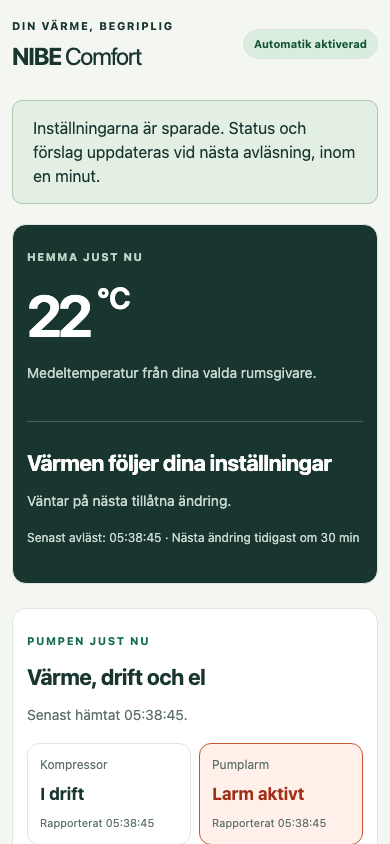
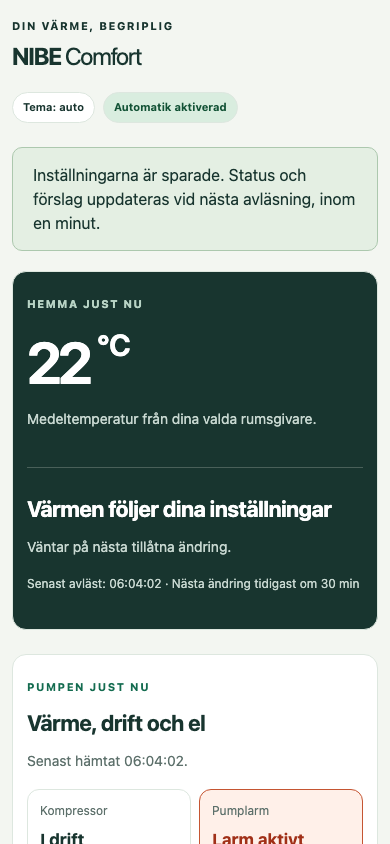
Dark mode following Home Assistant theme (0.2.4)

diff --git a/nibe_comfort/static/style.css b/nibe_comfort/static/style.css
@@ -5,3 +5,16 @@
 .dashboard{margin:24px 0}.live-grid{display:grid;grid-template-columns:repeat(auto-fit,minmax(170px,1fr));gap:14px}.live-metric{border:1px solid var(--line);border-radius:12px;padding:16px;min-width:0}.live-metric span,.live-metric small{display:block;font-size:12px;color:var(--muted)}.live-metric strong{display:block;font-size:21px;margin:8px 0;overflow-wrap:anywhere}.live-metric small{font-size:11px}.alarm-active{border-color:#c55532;background:#fff0e9}.alarm-active strong{color:#a13018}.section-heading{display:flex;align-items:center;justify-content:space-between;gap:16px}.chart{width:100%;min-height:100px;overflow:hidden}.chart svg{display:block;width:100%;height:auto}.chart text{font-size:13px;fill:var(--muted)}.chart-grid{stroke:var(--line);stroke-width:1}.chart-line{fill:none;stroke-width:2.5;stroke-linejoin:round;stroke-linecap:round}.chart-target{stroke:#657469;stroke-width:1.5;stroke-dasharray:7 5}.series-0{stroke:#146c50;color:#146c50}.series-1{stroke:#bd671c;color:#bd671c}.series-2{stroke:#4269bb;color:#4269bb}.series-3{stroke:#994b8e;color:#994b8e}.series-4{stroke:#b04743;color:#b04743}.series-5{stroke:#53821f;color:#53821f}.series-6{stroke:#16838a;color:#16838a}.series-7{stroke:#7158b1;color:#7158b1}.series-8{stroke:#6b614c;color:#6b614c}.series-9{stroke:#575c80;color:#575c80}.chart-legend{display:flex;flex-wrap:wrap;gap:8px 18px;font-size:12px}.legend-item:before{content:"";display:inline-block;width:16px;border-top:3px solid currentColor;margin-right:6px;vertical-align:middle}.forecast-list{display:flex;flex-wrap:wrap;gap:8px;font-size:12px}.forecast-list span{border:1px solid var(--line);padding:6px;border-radius:6px}.events-list{max-height:650px;overflow:auto}.event{padding:18px 0;border-bottom:1px solid var(--line)}.event>small{display:block;color:var(--muted);font-size:11px;margin-bottom:5px}.event>strong{font-size:14px}.event p{font-size:13px;white-space:pre-line;margin:8px 0}.event details{font-size:12px}.event pre{white-space:pre-wrap;overflow-wrap:anywhere;background:var(--bg);padding:12px;border-radius:8px}.table-scroll{max-height:320px;overflow:auto;margin-top:12px}table{border-collapse:collapse;width:100%;font-size:12px}td,th{text-align:left;border-bottom:1px solid var(--line);padding:8px}h3{font-size:16px;margin-top:24px}#manual-pump,#manual-outdoor,#manual-price{font-size:13px;margin:16px 0}
 .chart-line.dashed{stroke-dasharray:8 6}.legend-item.dashed:before{border-top-style:dashed}.chart-now{stroke:#18352f;stroke-width:1.5;stroke-dasharray:3 4}.chart .chart-guide-label{font-size:11px}.chart-marker{fill:#fff;stroke-width:2.5}.chart-band{fill:#4269bb;opacity:.1}.curve-point{fill:#146c50;opacity:.75}.curve-point.other{fill:#9aa79f;opacity:.5}.curve-current{fill:none;stroke:#bd671c;stroke-width:3}.plan-changes{font-size:13px;padding-left:20px;margin:6px 0 14px}.plan-changes{list-style:none;padding-left:0}.plan-changes li{margin:4px 0;padding:6px 10px;border-left:4px solid #ccc;border-radius:6px;background:#f6f7f5}.plan-changes li.plan-heading{background:none;border:0;padding:8px 0 0;font-weight:700;font-size:12px;text-transform:uppercase;letter-spacing:.04em;color:#666}.plan-changes li.planned{border-color:#994b8e}.plan-changes li.done-auto{border-color:#146c50}.plan-changes li.done-other{border-color:#d9822b}.plan-changes li.muted{color:#666}.chart-event line{stroke-width:1.5}.chart-event rect{stroke-width:1}.chart .chart-event text{font-size:11px;font-weight:600}.chart-event.planned line{stroke:#994b8e;stroke-dasharray:5 4}.chart-event.planned rect{fill:#f6eaf4;stroke:#994b8e}.chart-event.planned text{fill:#6e2f66}.chart-event.done-auto line{stroke:#146c50}.chart-event.done-auto rect{fill:#e6f3ee;stroke:#146c50}.chart-event.done-auto text{fill:#0d4a37}.chart-event.done-other line{stroke:#d9822b}.chart-event.done-other rect{fill:#fbefe2;stroke:#d9822b}.chart-event.done-other text{fill:#8a4c0f}.chart-line.thin{stroke-width:1.5;opacity:.7}.key{font-weight:700}.key.planned{color:#994b8e}.key.done-auto{color:#146c50}.key.done-other{color:#c46f1c}.compact-select{max-width:360px}
 @media(max-width:480px){.section-heading{align-items:flex-start;flex-direction:column}.live-grid{grid-template-columns:1fr 1fr;gap:8px}.live-metric{padding:12px}.live-metric strong{font-size:17px}.chart text{font-size:12px}header,main{padding:12px}.card{padding:18px 14px;border-radius:14px}.temperature{font-size:58px}h1{font-size:24px}header{flex-wrap:wrap}.metrics{grid-template-columns:repeat(3,minmax(0,1fr));gap:6px}.metrics strong{font-size:20px}.target-control input{font-size:26px}.target-control button{padding:8px 14px}.buttons button{flex:1 1 auto}.section-heading button{width:100%}.compact-select{max-width:none}}
+.header-actions{display:flex;gap:8px;align-items:center;flex-wrap:wrap;justify-content:flex-end}button.theme-toggle{color:var(--ink);cursor:pointer;font-weight:650}
+:root[data-theme=dark]{color-scheme:dark;--ink:#e3ece7;--muted:#9fb2aa;--green:#4cc08f;--line:#2f3b37;--paper:#1c2321;--bg:#111614}
+:root[data-theme=dark] .badge{background:#1c2321;color:var(--ink)}:root[data-theme=dark] .badge.active{background:#173d2d;color:#9ee3c1}
+:root[data-theme=dark] .hero{background:#0f2a22;color:#f1f6f3;border-color:#244a3d}:root[data-theme=dark] .hero-status{border-color:#2f5446}
+:root[data-theme=dark] input[type=number],:root[data-theme=dark] select{background:#141a18;border-color:#3a4a44;color:var(--ink)}
+:root[data-theme=dark] button{background:#2b8a63;color:#fff}:root[data-theme=dark] button.secondary,:root[data-theme=dark] .target-control button{background:#25302c;color:var(--ink)}:root[data-theme=dark] button.theme-toggle{background:var(--paper);color:var(--ink)}
+:root[data-theme=dark] .explanation{background:#1a2925}:root[data-theme=dark] #notice{background:#16291f;border-color:#2d5a43}:root[data-theme=dark] #notice.error,:root[data-theme=dark] .alarm-active{background:#33201a;border-color:#a8573c;color:#f3c2ad}:root[data-theme=dark] .alarm-active strong{color:#ff9d7d}
+:root[data-theme=dark] .chart-target{stroke:#8a9a93}:root[data-theme=dark] .chart-now{stroke:#cfdcd6}:root[data-theme=dark] .chart-marker{fill:var(--paper)}:root[data-theme=dark] .chart-band{fill:#7ea2ef;opacity:.14}:root[data-theme=dark] .curve-point.other{fill:#6f7d77}
+:root[data-theme=dark] .series-0{stroke:#4cc08f;color:#4cc08f}:root[data-theme=dark] .series-1{stroke:#f0a35c;color:#f0a35c}:root[data-theme=dark] .series-2{stroke:#7ea2ef;color:#7ea2ef}:root[data-theme=dark] .series-3{stroke:#d38ac8;color:#d38ac8}:root[data-theme=dark] .series-4{stroke:#ef8a85;color:#ef8a85}:root[data-theme=dark] .series-5{stroke:#9fd162;color:#9fd162}:root[data-theme=dark] .series-6{stroke:#5fc9cf;color:#5fc9cf}:root[data-theme=dark] .series-7{stroke:#b19cf0;color:#b19cf0}:root[data-theme=dark] .series-8{stroke:#c9b98f;color:#c9b98f}:root[data-theme=dark] .series-9{stroke:#a3a9d6;color:#a3a9d6}
+:root[data-theme=dark] .curve-point{fill:#4cc08f}:root[data-theme=dark] .curve-current{stroke:#f0a35c}
+:root[data-theme=dark] .plan-changes li{background:#202926}:root[data-theme=dark] .plan-changes li.plan-heading{background:none;color:var(--muted)}:root[data-theme=dark] .plan-changes li.muted{color:var(--muted)}:root[data-theme=dark] .plan-changes li.planned{border-color:#d38ac8}:root[data-theme=dark] .plan-changes li.done-auto{border-color:#4cc08f}:root[data-theme=dark] .plan-changes li.done-other{border-color:#f0a35c}
+:root[data-theme=dark] .chart-event.planned line{stroke:#d38ac8}:root[data-theme=dark] .chart-event.planned rect{fill:#3a2236;stroke:#d38ac8}:root[data-theme=dark] .chart-event.planned text{fill:#f0c8ea}:root[data-theme=dark] .chart-event.done-auto line{stroke:#4cc08f}:root[data-theme=dark] .chart-event.done-auto rect{fill:#173d2d;stroke:#4cc08f}:root[data-theme=dark] .chart-event.done-auto text{fill:#bff0d8}:root[data-theme=dark] .chart-event.done-other line{stroke:#f0a35c}:root[data-theme=dark] .chart-event.done-other rect{fill:#3d2a17;stroke:#f0a35c}:root[data-theme=dark] .chart-event.done-other text{fill:#f8d6b3}
+:root[data-theme=dark] .key.planned{color:#d38ac8}:root[data-theme=dark] .key.done-auto{color:#4cc08f}:root[data-theme=dark] .key.done-other{color:#f0a35c}

diff --git a/nibe_comfort/static/theme.js b/nibe_comfort/static/theme.js
@@ -1,0 +1,71 @@
+"use strict";
+// Loaded before the page renders to avoid a light flash. "auto" follows Home Assistant's
+// theme when the panel runs in the same-origin ingress iframe, otherwise the system setting.
+(() => {
+  const KEY = "nibe-comfort-theme";
+  const modes = ["auto", "light", "dark"];
+  const labels = { auto: "Tema: auto", light: "Tema: ljust", dark: "Tema: mörkt" };
+  const system = window.matchMedia("(prefers-color-scheme: dark)");
+  let choice = "auto";
+  try { choice = modes.includes(localStorage.getItem(KEY)) ? localStorage.getItem(KEY) : "auto"; } catch { /* storage blocked */ }
+
+  const luminance = (color) => {
+    const match = /rgba?\(\s*([\d.]+)[ ,]+([\d.]+)[ ,]+([\d.]+)(?:[ ,/]+([\d.]+%?))?/.exec(color || "");
+    if (!match || (match[4] !== undefined && parseFloat(match[4]) === 0)) return null;
+    return (0.2126 * match[1] + 0.7152 * match[2] + 0.0722 * match[3]) / 255;
+  };
+  const resolveColor = (doc, value) => {
+    if (!value) return null;
+    const probe = doc.createElement("span");
+    probe.style.color = value;
+    probe.style.display = "none";
+    doc.body.append(probe);
+    const color = doc.defaultView.getComputedStyle(probe).color;
+    probe.remove();
+    return color;
+  };
+  const parentDocument = () => {
+    try {
+      if (window.parent === window) return null;
+      return window.parent.document;
+    } catch { return null; }
+  };
+  const homeAssistantDark = () => {
+    const doc = parentDocument();
+    if (!doc || !doc.body) return null;
+    const style = doc.defaultView.getComputedStyle(doc.documentElement);
+    const scheme = style.colorScheme || "";
+    if (/^dark$/.test(scheme.trim())) return true;
+    if (/^light$/.test(scheme.trim())) return false;
+    for (const value of [style.getPropertyValue("--primary-background-color").trim(), doc.defaultView.getComputedStyle(doc.body).backgroundColor]) {
+      const light = luminance(resolveColor(doc, value));
+      if (light !== null) return light < 0.5;
+    }
+    return null;
+  };
+  const apply = () => {
+    const dark = choice === "dark" || (choice === "auto" && (homeAssistantDark() ?? system.matches));
+    document.documentElement.dataset.theme = dark ? "dark" : "light";
+    const button = document.getElementById("theme-toggle");
+    if (button) {
+      button.textContent = labels[choice];
+      button.title = "Växla mellan automatiskt (följer Home Assistant), ljust och mörkt tema";
+    }
+    window.dispatchEvent(new Event("nibe-theme"));
+  };
+  apply();
+  system.addEventListener?.("change", apply);
+  const doc = parentDocument();
+  if (doc) {
+    const observer = new MutationObserver(() => { if (choice === "auto") apply(); });
+    for (const node of [doc.documentElement, doc.body].filter(Boolean)) observer.observe(node, { attributes: true, attributeFilter: ["style", "class"] });
+  }
+  document.addEventListener("DOMContentLoaded", () => {
+    apply();
+    document.getElementById("theme-toggle")?.addEventListener("click", () => {
+      choice = modes[(modes.indexOf(choice) + 1) % modes.length];
+      try { localStorage.setItem(KEY, choice); } catch { /* storage blocked */ }
+      apply();
+    });
+  });
+})();

diff --git a/nibe_comfort/static/index.html b/nibe_comfort/static/index.html
@@ -3,6 +3,8 @@
 <head>
   <meta charset="utf-8">
   <meta name="viewport" content="width=device-width, initial-scale=1">
+  <meta name="color-scheme" content="light dark">
+  <script src="./theme.js"></script>
   <title>NIBE Comfort</title>
   <link rel="stylesheet" href="./style.css">
   <script src="./app.js" defer></script>
@@ -10,7 +12,10 @@
 <body>
   <header>
     <div><span class="eyebrow">DIN VÄRME, BEGRIPLIG</span><h1>NIBE <span>Comfort</span></h1></div>
-    <span id="mode" class="badge">Ansluter…</span>
+    <div class="header-actions">
+      <button id="theme-toggle" type="button" class="badge theme-toggle">Tema: auto</button>
+      <span id="mode" class="badge">Ansluter…</span>
+    </div>
   </header>
   <main>
     <div id="notice" role="status" hidden></div>

diff --git a/nibe_comfort/tests/test_api.py b/nibe_comfort/tests/test_api.py
@@ -48,6 +48,33 @@ class ApiTests(unittest.TestCase):
             with exc:
                 return exc.code, json.load(exc)
 
+    def test_ingress_serves_static_files_including_theme(self):
+        handler = handler_for(self.controller, None)
+        ingress = type("IngressHandler", (handler,), {"address_string": lambda self: "172.30.32.2"})
+        original_setup = handler.setup
+
+        def setup(this):
+            original_setup(this)
+            this.client_address = ("172.30.32.2", this.client_address[1])
+
+        ingress.setup = setup
+        server = ThreadingHTTPServer(("127.0.0.1", 0), ingress)
+        thread = threading.Thread(target=server.serve_forever, daemon=True)
+        thread.start()
+        try:
+            base = f"http://127.0.0.1:{server.server_port}"
+            with urlopen(base + "/theme.js", timeout=3) as response:
+                self.assertIn("text/javascript", response.headers["Content-Type"])
+                self.assertIn(b"prefers-color-scheme", response.read())
+            with urlopen(base + "/", timeout=3) as response:
+                html = response.read()
+            self.assertIn(b'src="./theme.js"', html)
+            self.assertLess(html.index(b"theme.js"), html.index(b"<body>"))
+        finally:
+            server.shutdown()
+            server.server_close()
+            thread.join()
+
     def test_authentication_required_for_reads_and_writes(self):
         self.assertEqual(self.request("/api/settings", token=False)[0], 401)
         self.assertEqual(self.request("/api/settings", method="PUT", body=config(), token=False)[0], 401)

diff --git a/nibe_comfort/app.py b/nibe_comfort/app.py
@@ -103,7 +103,7 @@ def handler_for(controller, api_token=None):
                                 "current_temperature": current, "temperature_error": temperature_error,
                             })
                     self.respond(200, entities)
-                elif api_token is None and path in ("/", "/index.html", "/app.js", "/style.css"):
+                elif api_token is None and path in ("/", "/index.html", "/app.js", "/theme.js", "/style.css"):
                     name = "index.html" if path == "/" else path[1:]
                     mime = {"html": "text/html", "js": "text/javascript", "css": "text/css"}[name.rsplit(".", 1)[1]]
                     self.respond(200, (STATIC / name).read_bytes(), mime + "; charset=utf-8")

diff --git a/README.md b/README.md
@@ -20,6 +20,10 @@ skrivförsök sparas i en beständig ändringslogg.
 | --- | --- | --- |
 | ![Temperaturgraf med uppmätt och inställd temperatur](docs/screenshots/temperaturer.png) | ![Måltemperatur, rumsgivare, väder och elpris](docs/screenshots/installningar.png) | ![Mobilvy i Home Assistant-appen](docs/screenshots/mobil.png) |
 
+| Mörkt läge (följer Home Assistant) | Värmeplan i mörkt läge |
+| --- | --- |
+| ![Översikt i mörkt läge](docs/screenshots/morkt-lage.png) | ![Värmeplan i mörkt läge](docs/screenshots/morkt-varmeplan.png) |
+
 Skärmbilderna är tagna med testdata.
 
 ## Installation
@@ -89,7 +93,7 @@ npm run screenshots  # uppdaterar docs/screenshots
 
 1. Höj `version` i `nibe_comfort/config.yaml` och skriv i
    `nibe_comfort/CHANGELOG.md`.
-2. Skapa och pusha en tagg: `git tag v0.2.3 && git push origin v0.2.3`.
+2. Skapa och pusha en tagg: `git tag v0.2.4 && git push origin v0.2.4`.
 3. GitHub Actions testar, bygger `nibe_comfort-<version>.zip` och skapar en
    release med zip-filen och installationsinstruktioner.
 

diff --git a/nibe_comfort/DOCS.md b/nibe_comfort/DOCS.md
@@ -68,6 +68,13 @@ tidsaxel, med en linje för *nu*:
   - Listan *Justeringar* visar kommande ändringar med orsak och gjorda
     ändringar senaste dygnet med källa.
 
+### Mörkt läge
+
+Knappen **Tema** uppe till höger växlar mellan *auto*, *ljust* och *mörkt*.
+*Auto* följer Home Assistants tema, även om du byter tema medan sidan är öppen.
+Öppnas sidan utanför Home Assistant följer den enhetens ljus/mörk-inställning.
+Valet sparas per webbläsare.
+
 Gränssnittet anpassar sig till smala skärmar (även Home Assistant-appen) utan
 sidoscroll, och graferna ritas om i skärmens bredd så att texten går att läsa.
 - **Värmekurvan som den är inställd nu**: myUplink exponerar inte kurvans

diff --git a/nibe_comfort/CHANGELOG.md b/nibe_comfort/CHANGELOG.md
@@ -1,5 +1,11 @@
 # Ändringslogg
 
+## 0.2.4
+
+- Mörkt läge. Knappen **Tema** uppe till höger växlar mellan *auto*, *ljust*
+  och *mörkt*. *Auto* följer Home Assistants tema (även när du byter tema medan
+  sidan är öppen) och annars enhetens inställning. Valet sparas i webbläsaren.
+
 ## 0.2.3
 
 - Kurvförskjutningsgrafen visar tydligt **när** värmekurvan kommer att
